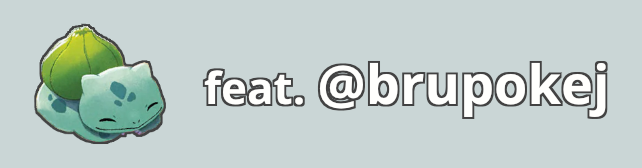
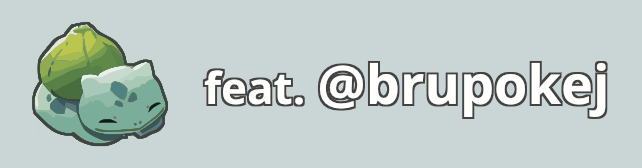
tweak attribution

Changed region(s): [[0.0312, 0.119, 0.2804, 0.8631], [0.1246, 0.4167, 0.1558, 0.4762], [0.1558, 0.4762, 0.1869, 0.506]]

diff --git a/site/src/pages/attribution.tsx b/site/src/pages/attribution.tsx
@@ -20,7 +20,6 @@ const css = `
     height: 68px;
     width: 68px;
     object-fit: contain;
-    filter: url(#outline);
   }
 
   .mockup-banner-text {
@@ -40,7 +39,7 @@ const css = `
 `;
 
 export default function AttributionMockup(): ReactNode {
-  const imgSrc = useBaseUrl("/img/brupokej.png");
+  const imgSrc = useBaseUrl("/img/logo.svg");
   return (
     <>
       <Head>

diff --git a/site/docusaurus.config.ts b/site/docusaurus.config.ts
@@ -69,6 +69,10 @@ const config: Config = {
           changefreq: "weekly",
           priority: 0.5,
         },
+        pages:
+          process.env.NODE_ENV !== "development"
+            ? { exclude: ["**/attribution.tsx"] }
+            : {},
         theme: {
           customCss:
             process.env.NODE_ENV === "development"
